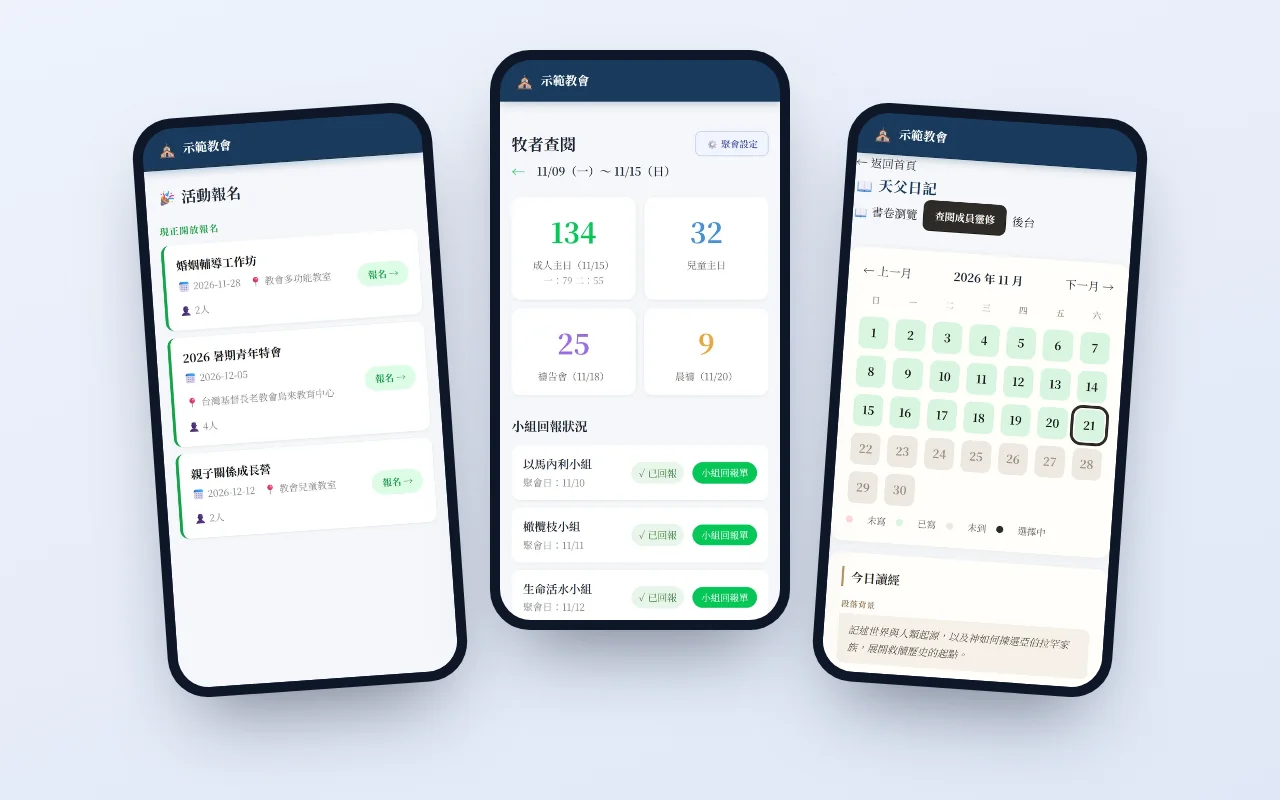
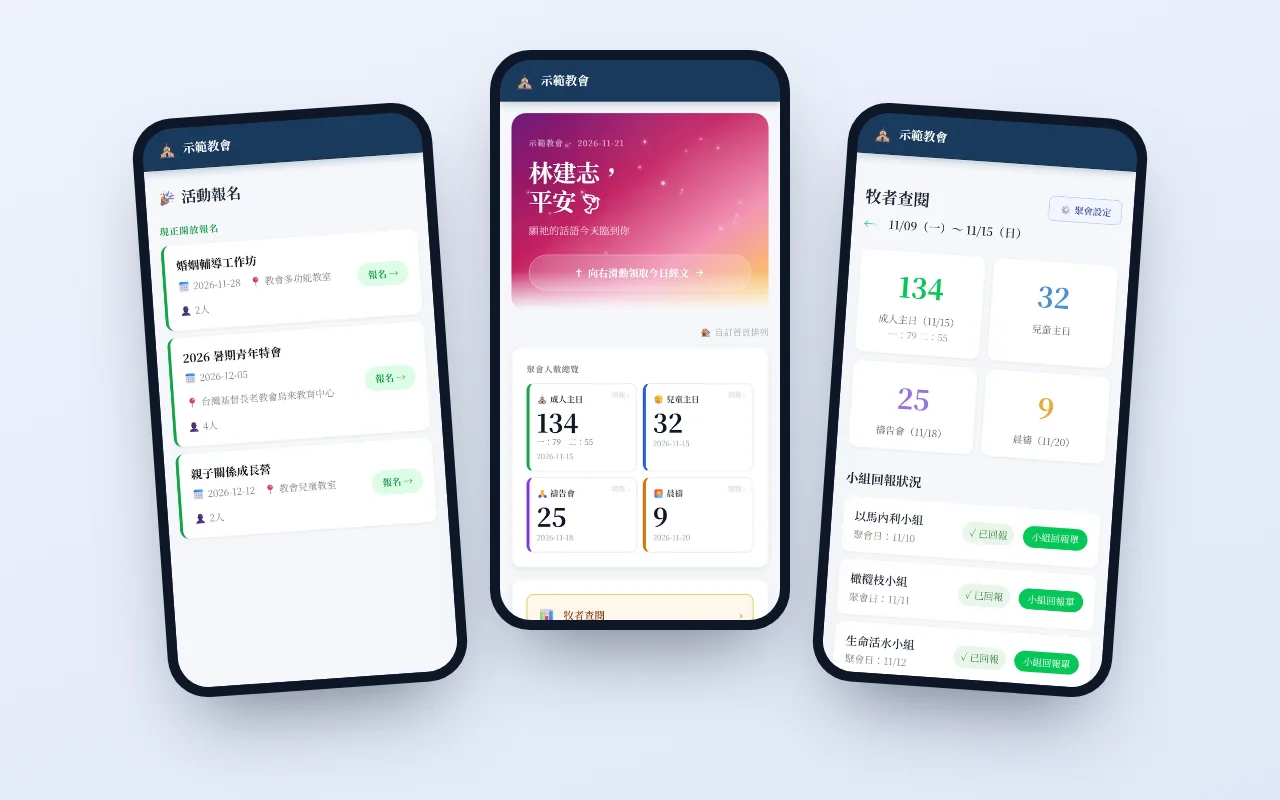
feat: 天父日記改放真實畫面；教會整合管理系統截圖換掉重複的日記畫面
- 天父日記：church-admin 頁公開的日記手機畫面（展示用虛構資料），取代「不公開畫面」卡
- 教會整合管理系統：三個畫面改為活動報名、會員首頁、牧者查閱，不再和天父日記重複

AI 協助完成。

Claude-Session: https://claude.ai/code/session_01P35kDjSVQmyhZbayaapSzU

diff --git a/data/projects.js b/data/projects.js
@@ -33,7 +33,7 @@ window.PORTFOLIO = {
           faith: "沒有 LINE 的外部朋友填姓名就能報名，不讓新朋友被門檻擋在外面。系統不主動催繳費用、讀經不顯示「落後幾天」：紙本不會罵人，系統也不該。授權條款寫明教會有永久、無償、不可撤銷的使用權。"
         },
         {
-          id: "tianfu-diary", weight: 3, name: "天父日記", kind: "靈修 App", isPrivate: true, repo: "tianfu-diary",
+          id: "tianfu-diary", shot: "img/shots/tianfu-diary.webp", weight: 3, name: "天父日記", kind: "靈修 App", isPrivate: true, repo: "tianfu-diary",
           tagline: "依讀經進度顯示當日經文，安靜書寫，提交後鎖定。",
           tags: ["Flask", "Supabase", "Groq llama-3.3-70b", "LINE Login", "PWA"],
           pro: ["讀經進度在後台用像 Excel 的表格直接編輯，書卷簡稱與章節範圍即時檢查", "AI 依當日經文產生反思問題與段落背景", "串接聖經互動全書的標註引擎，專名與地名可點開", "牧者總覽頁一次看所有授權組員的當日日記與當月完成狀況", "後台一鍵匯出全部資料，壓縮檔內附免網路的離線閱讀器與給非工程師的交接說明"],
